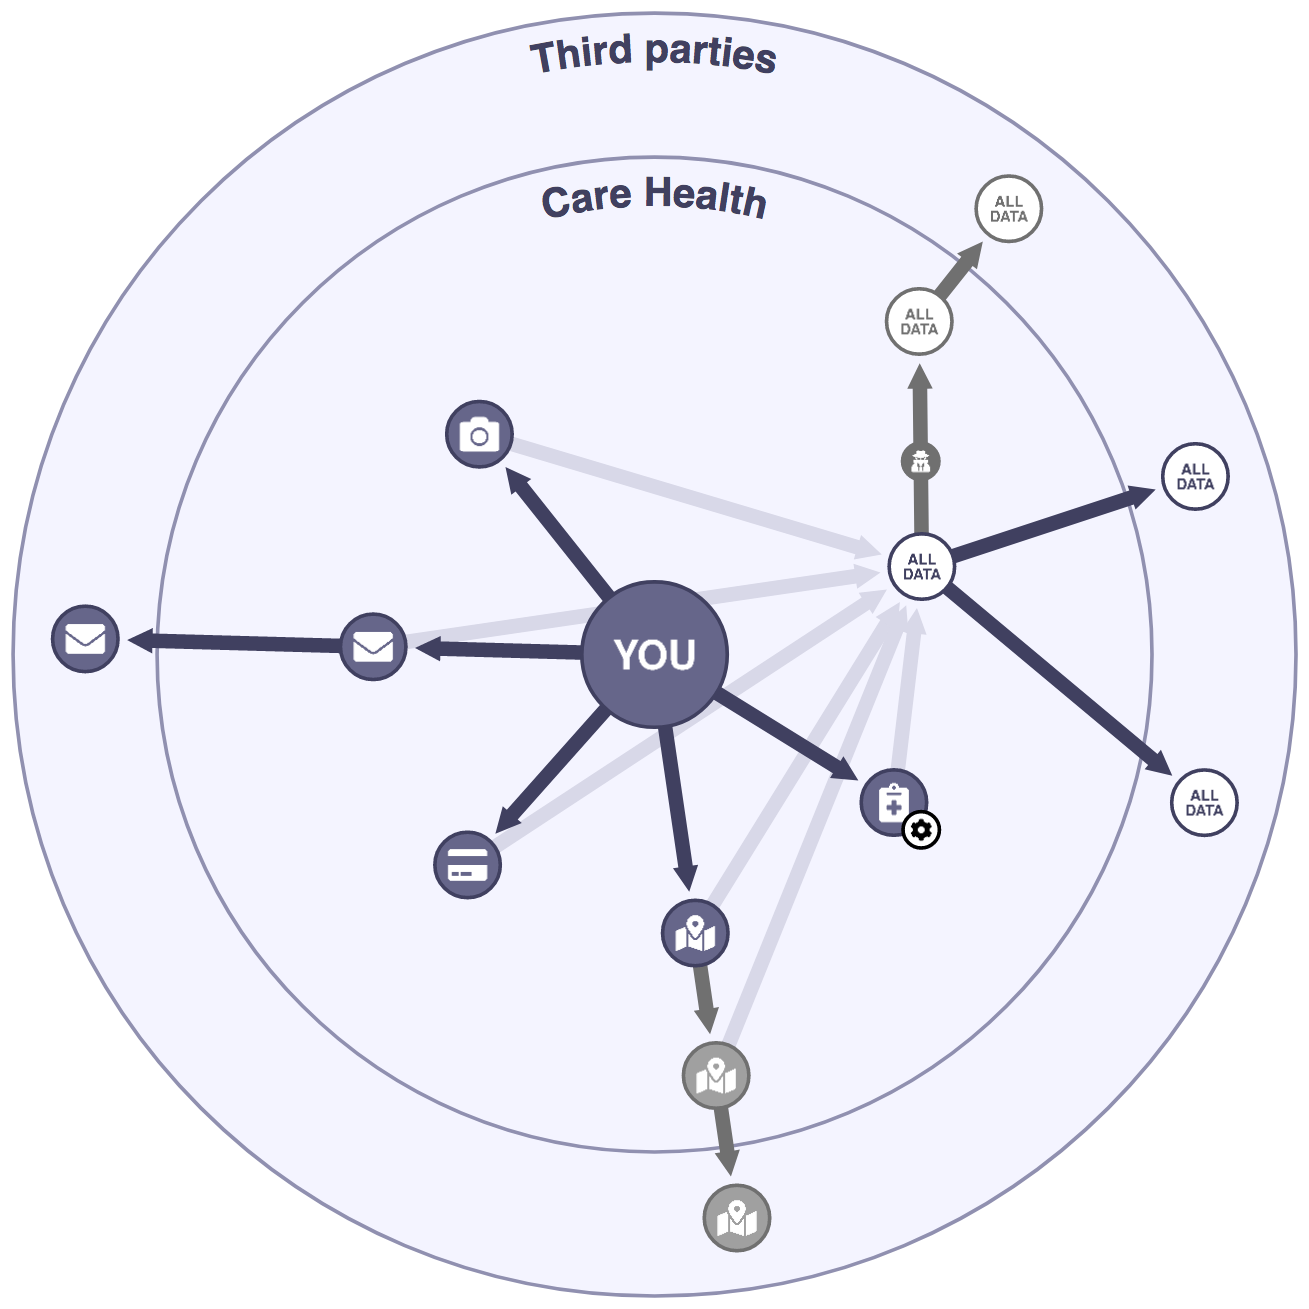
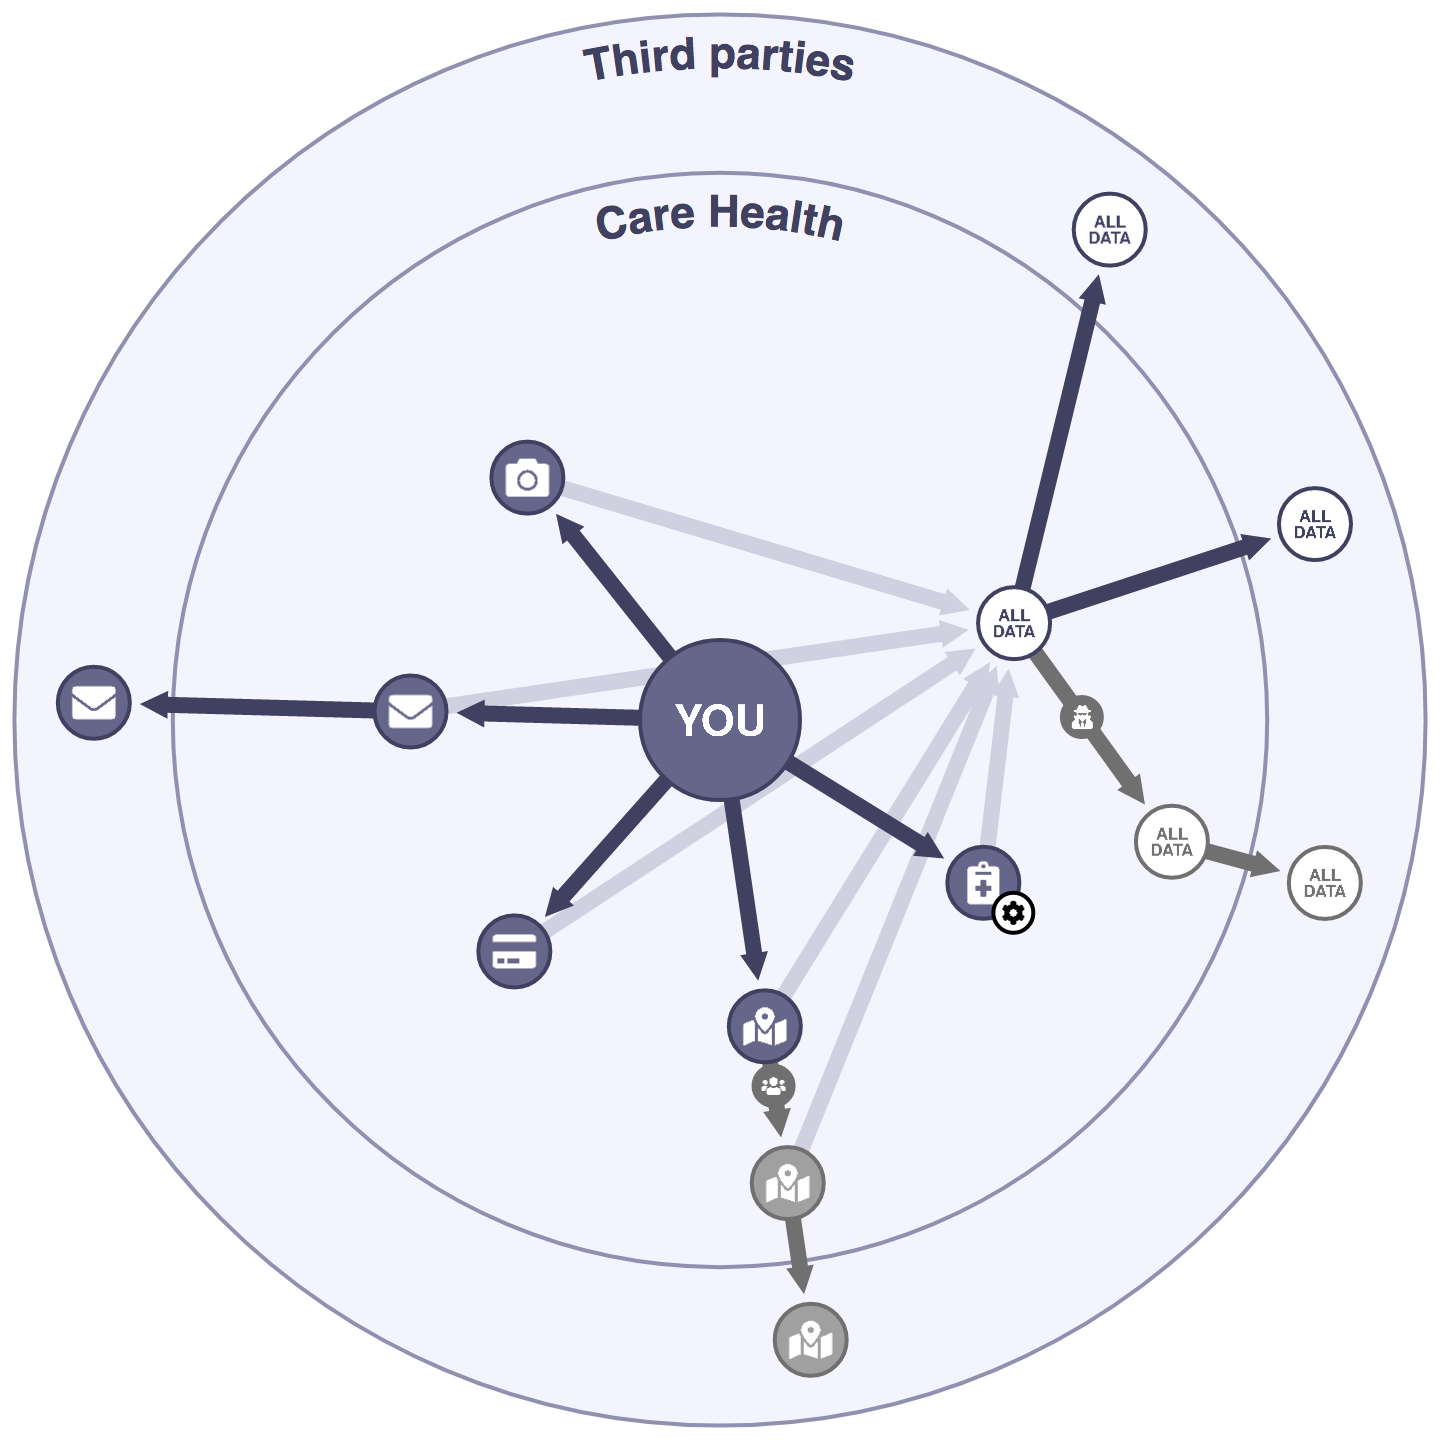
Updated tutorial.

diff --git a/tutorial.html b/tutorial.html
@@ -12,17 +12,17 @@
 
 <h1>How to read privacy policies using this tool</h1>
 
-<p>In this tutorial, we look at an example privacy policy of a fictional company, Care Health. This visualization of the Care Health privacy policy is designed to help you understand how Care Health collects your personal data and how it can use or share your data. We'll give you a quick tutorial here.</p>
+<p>In this tutorial, we look at an example privacy policy of a fictional company, Care Health. This visualization of the Care Health privacy policy is designed to help you understand how Care Health can collect, use, and share your personal data.</p>
 
 <p>When you use Care Health, it will collect different types of data from you. These different types of data are represented in the visualization by small <strong>circles</strong>.</p>
 
 <img src="images/tutorial/1.png" width="400px"></img>
 
-<p><strong>Hover</strong> over a circle with your mouse to select it and learn more about how your data can be shared, changed, or used. You can <strong>click</strong> on a circle to keep it selected.</p>
+<p><strong>Hover</strong> over a circle with your mouse to select it and learn more about how your data can be shared, changed, or used. You can <strong>hover</strong> over and <strong>click</strong> on a circle to keep it selected.</p>
 
 <img src="images/tutorial/2.png" width="300px"></img>
 
-<p>Your data can be shared or changed. This is represented by <strong>arrows</strong> pointing to new circles representing your data after it has been shared or changed. You can <strong>hover</strong> over and <strong>click</strong> arrows to learn more about the specific action they represent.</p>
+<p>Your data can be shared or changed. This is represented by <strong>arrows</strong> pointing to new circles representing your data after it has been shared or changed. Sometimes, icons will appear on arrows that indicate special ways of sharing or changing your data, such as selling or anonymizing. You can <strong>hover</strong> over and <strong>click</strong> arrows to learn more about the specific action they represent.</p>
 
 <img src="images/tutorial/3.png" width="200px"></img>
 
